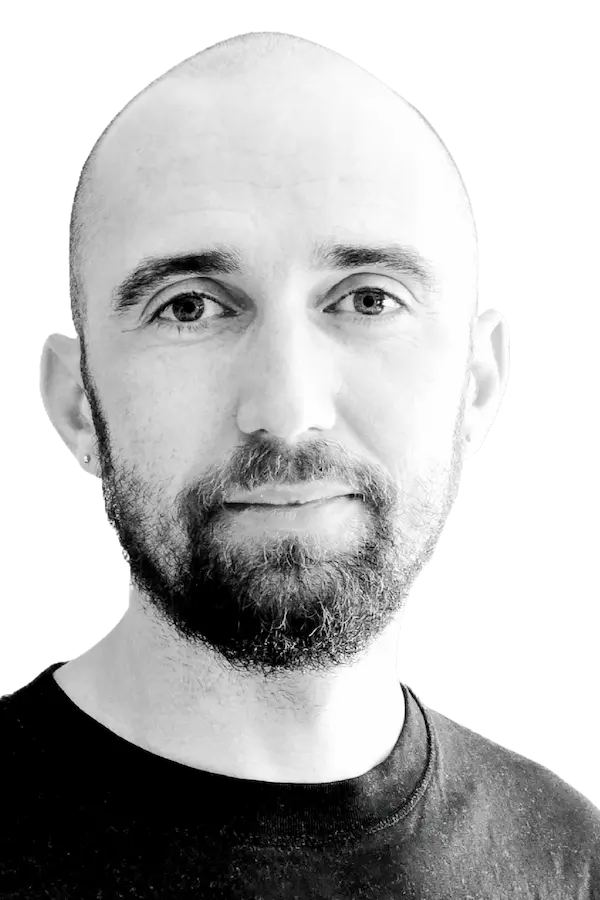
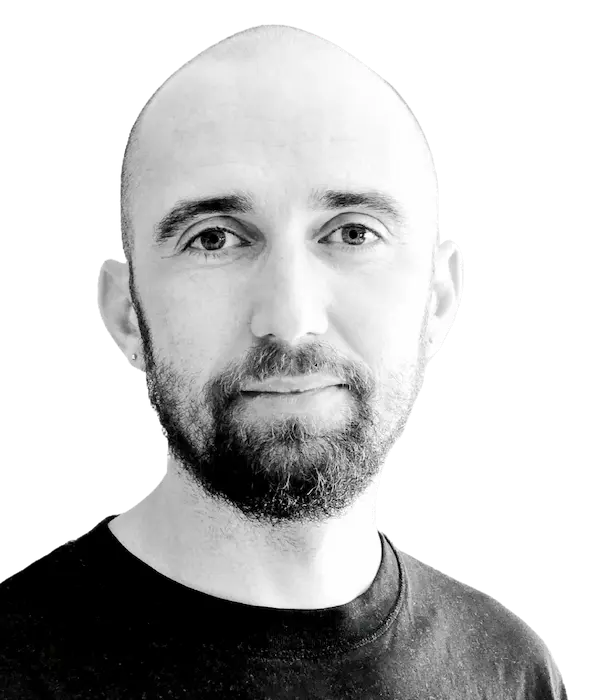
Hero section fixes

diff --git a/components/HeroSection.vue b/components/HeroSection.vue
@@ -52,7 +52,7 @@
     ". content" 1fr
     ". consult" auto
     / 1fr auto;
-  min-height: calc(100vh - 80px - var(--spacing-8xl));
+  height: calc(100vh - 80px - var(--spacing-8xl));
   margin: var(--spacing-5xl) auto;
   padding: var(--spacing-5xl) var(--spacing-8xl);
   color: rgb(var(--v-theme-surface));
@@ -67,13 +67,16 @@
     aspect-ratio: 1 / 1;
   }
 
+  @include display-md {
+    max-height: calc(var(--container-max-width-desktop) / 1.5);
+  }
+
   @include display-xs-only {
     grid-template:
       "content" auto
       "consult" 1fr
       / 1fr;
     padding: var(--spacing-2xl) var(--spacing-3xl) var(--spacing-3xl);
-    aspect-ratio: 8 / 15;
   }
 
   &__bg {
@@ -96,7 +99,7 @@
       inset: var(--spacing-10xl) 0 0;
       height: calc(100% - var(--spacing-10xl));
       object-fit: cover;
-      object-position: center top;
+      object-position: center bottom;
     }
   }
 
